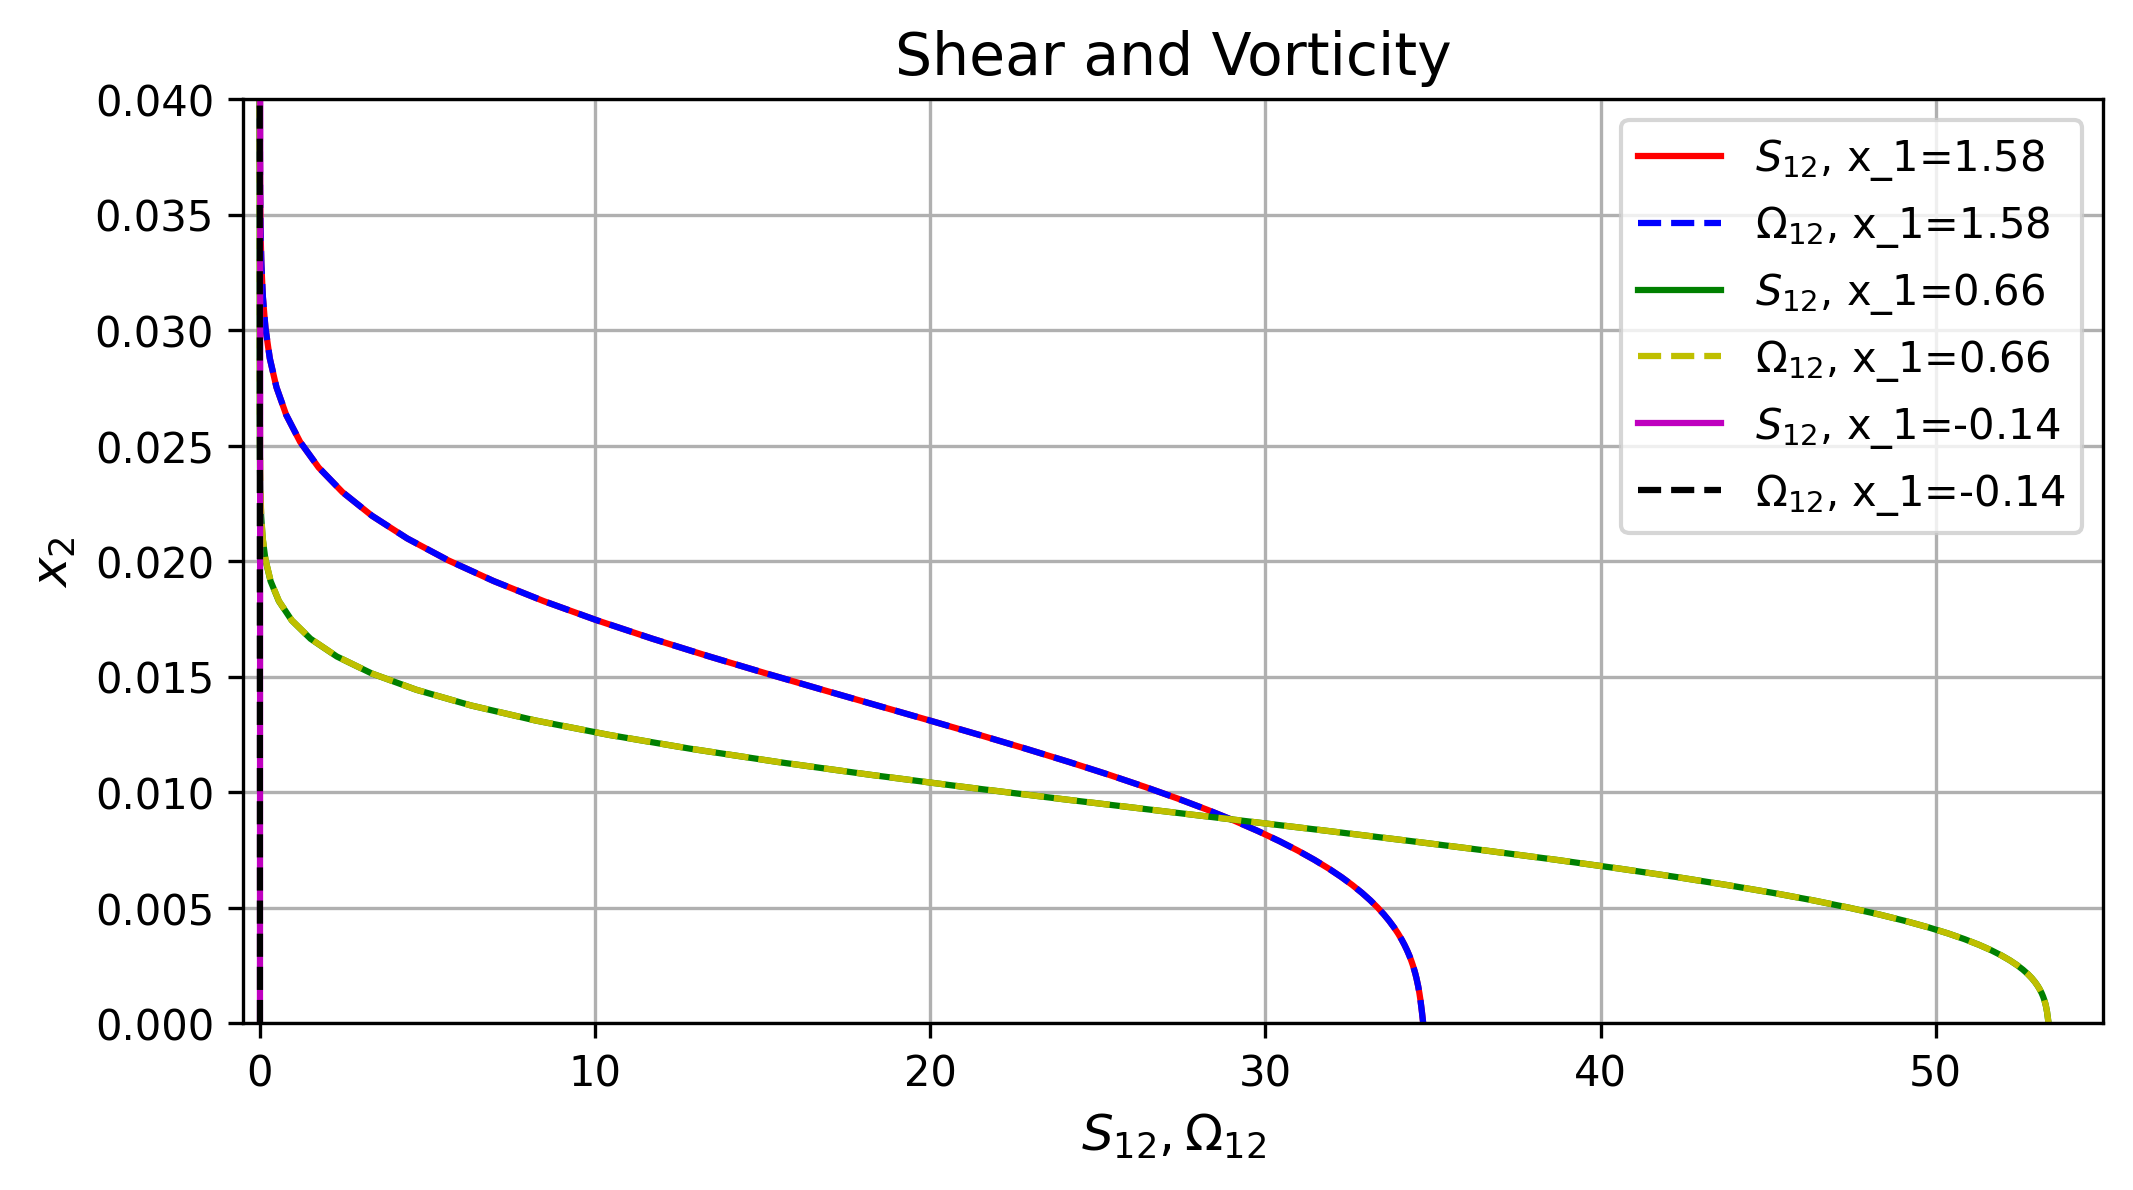
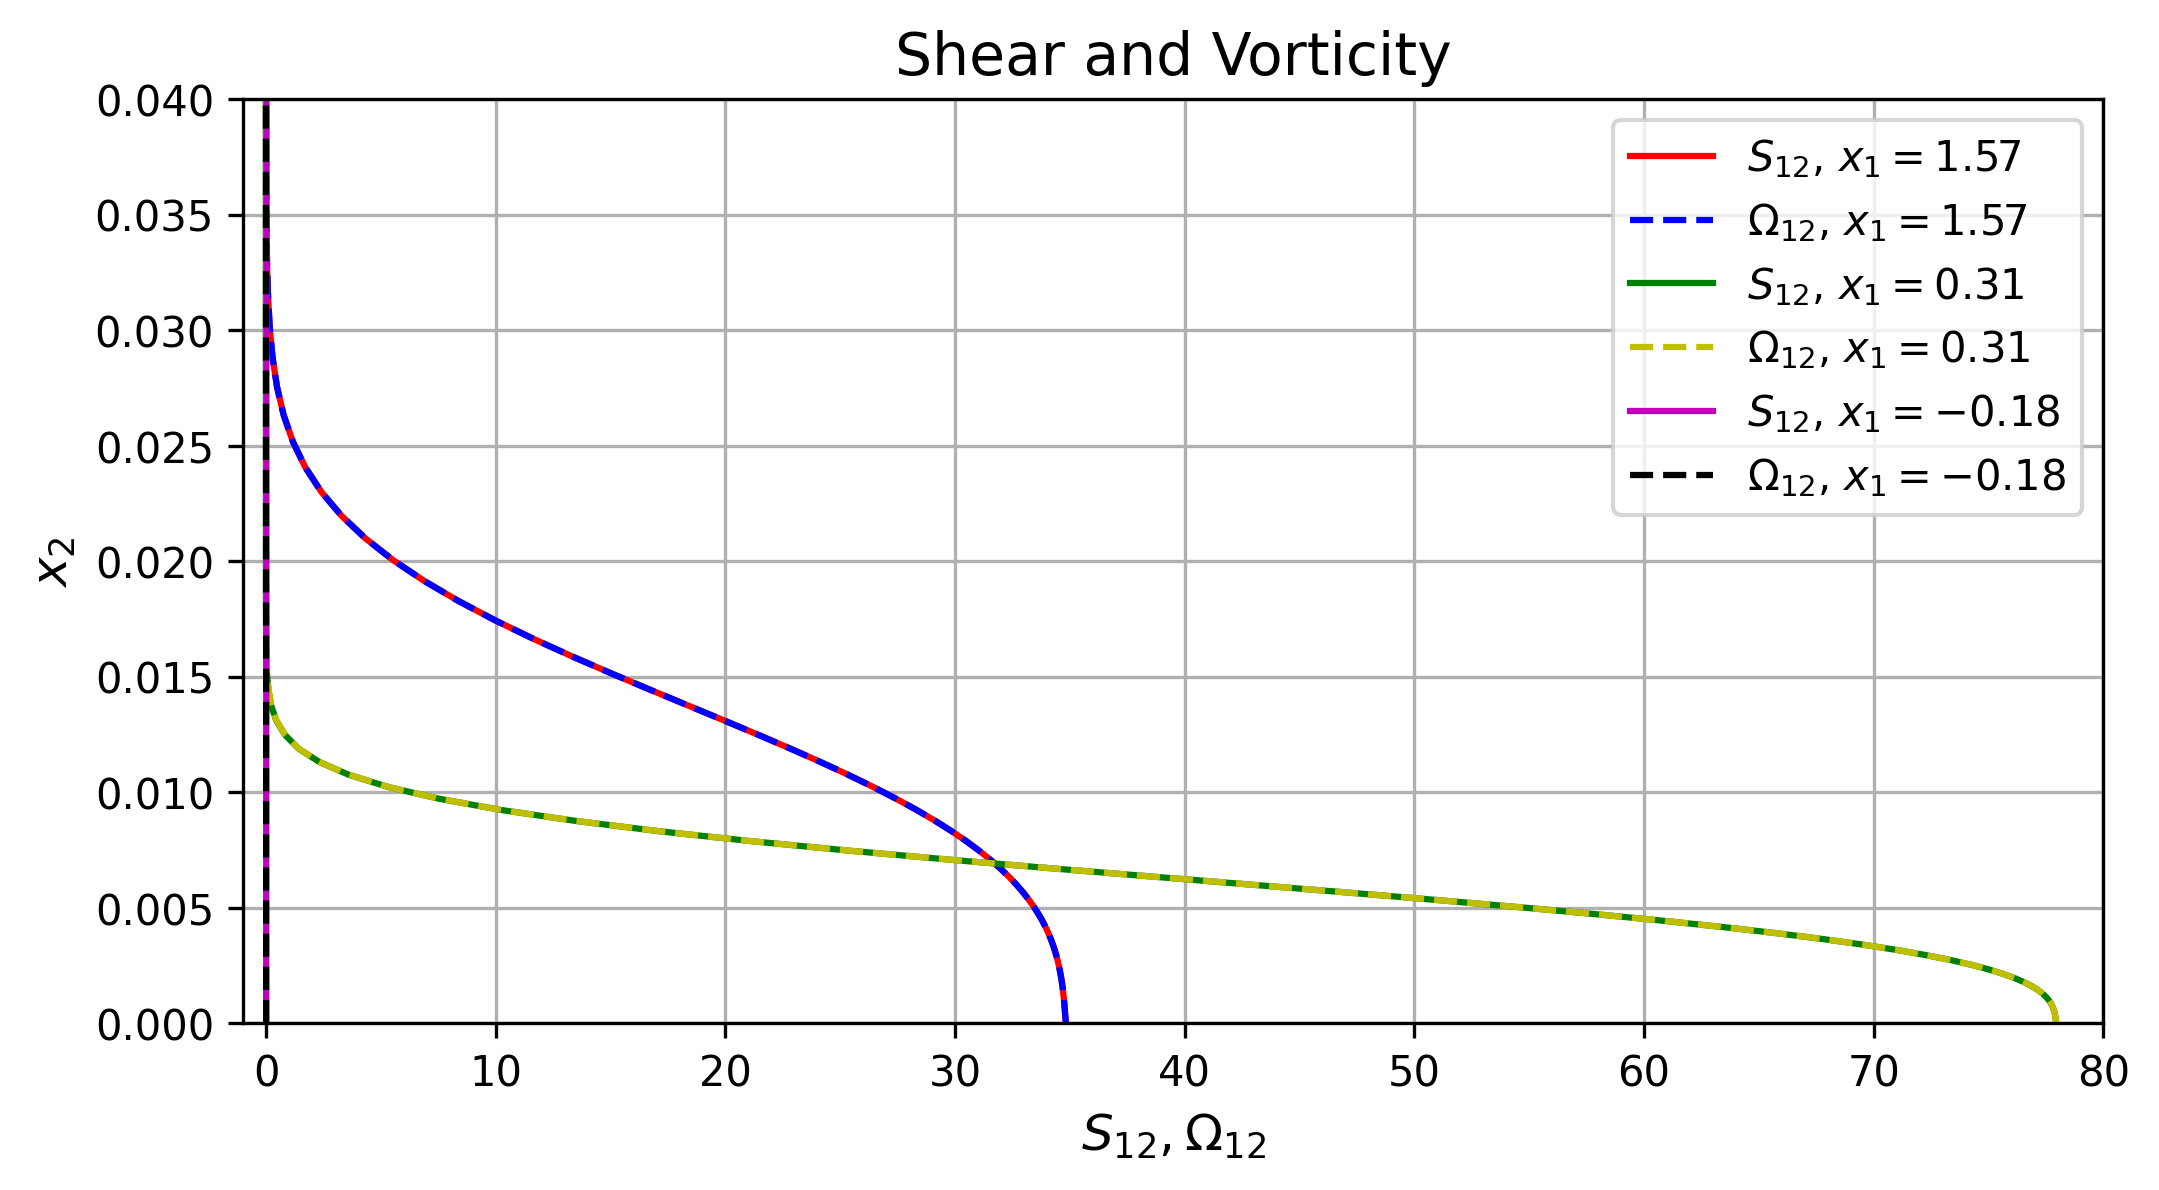
.

diff --git a/TME226/A1 (TME226) - Martin.py b/TME226/A1 (TME226) - Martin.py
@@ -592,83 +592,111 @@ print(omega_3[i,:])
 ##################################################
 new_prob(6)
 
+# S12 = 0.5 * (dudy + dvdx)
+# Omega12 = 0.5 * (dudy - dvdx)
+
+dudx_cut, dudy_cut=np.gradient(v1_2d[1:,:],xp[1:],yp[:])
+dvdx_cut, dvdy_cut=np.gradient(v2_2d[1:,:],xp[1:],yp[:])
+
 S12 = 0.5 * (dudy + dvdx)
 Omega12 = 0.5 * (dudy - dvdx)
 
-print(S12)
-print(Omega12)
+S12_cut = 0.5 * (dudy_cut + dvdx_cut)
+Omega12_cut = 0.5 * (dudy_cut - dvdx_cut)
 
-max_i = np.unravel_index(np.argmax(S12, axis=None), S12.shape)[0]
+print('dudy: ', dudy)
+print('dvdx: ', dvdx) # basically = 0
+print('max value of dvdx: ', np.unravel_index(np.argmax(dvdx, axis=None), dvdx.shape)[0])
+# print(S12)
+# print(Omega12)
 
-print('i =', max_i, 'Max S12 at i =', np.max(S12))
+max_i = np.unravel_index(np.argmax(S12_cut, axis=None), S12_cut.shape)[0]
 
-max_i = np.unravel_index(np.argmax(Omega12, axis=None), Omega12.shape)[0]
+print('i =', max_i, 'Max S12 at i:', np.max(S12_cut))
 
-print('i =', max_i, 'Max omega12 at i =', np.max(Omega12))
+max_i = np.unravel_index(np.argmax(Omega12_cut, axis=None), Omega12_cut.shape)[0]
 
-i = 170
+print('i =', max_i, 'Max omega12 at i:', np.max(Omega12_cut))
+
+# i = 170
+
+# plt.figure()
+# plt.plot(S12[i,:], yp, 'r-', label='$S_{12}$')
+# plt.plot(Omega12[i,:], yp, 'b--', label='$\Omega_{12}$')
+# plt.title(fr'Shear and Vorticity at $x_1={xc[i]:.2f}$')
+# plt.xlabel('$S_{12}, \\Omega_{12}$')
+# plt.ylabel('$x_2$')
+# plt.legend()
+# plt.axis([-0.5,35,0,0.05])
+# plt.grid(True)
+# plt.savefig('E6_1', dpi=dpi, bbox_inches='tight')
+# plt.show()
+
+# i = 85
+
+# plt.figure()
+# plt.plot(S12[i,:], yp, 'r-', label='$S_{12}$')
+# plt.plot(Omega12[i,:], yp, 'b--', label='$\Omega_{12}$')
+# plt.title(fr'Shear and Vorticity at $x_1={xc[i]:.2f}$')
+# plt.xlabel('$S_{12}, \\Omega_{12}$')
+# plt.ylabel('$x_2$')
+# plt.legend()
+# plt.grid(True)
+# plt.axis([-0.5,55,0,0.05])
+# plt.savefig('E6_2', dpi=dpi, bbox_inches='tight')
+# plt.show()
+
+# i = 5
+
+# plt.figure()
+# plt.plot(S12[i,:], yp, 'r-', label='$S_{12}$')
+# plt.plot(Omega12[i,:], yp, 'b--', label='$\Omega_{12}$')
+# plt.title(fr'Shear and Vorticity at $x_1={xc[i]:.2f}$')
+# plt.xlabel('$S_{12}, \\Omega_{12}$')
+# plt.ylabel('$x_2$')
+# plt.legend()
+# plt.grid(True)
+# plt.savefig('E6_3', dpi=dpi, bbox_inches='tight')
+# plt.show()
+
 
 plt.figure()
-plt.plot(S12[i,:], yp, 'r-', label='$S_{12}$')
-plt.plot(Omega12[i,:], yp, 'b--', label='$\Omega_{12}$')
-plt.title(fr'Shear and Vorticity at $x_1={xc[i]:.2f}$')
-plt.xlabel('$S_{12}, \\Omega_{12}$')
-plt.ylabel('$x_2$')
-plt.legend()
-plt.axis([-0.5,35,0,0.05])
-plt.grid(True)
-plt.savefig('E6_1', dpi=dpi, bbox_inches='tight')
-plt.show()
 
-i = 85
+i = 170-1
+plt.plot(S12[i,:], yp, 'r-', label='$S_{12}$' + fr', $x_1={xc[i]:.2f}$')
+plt.plot(Omega12[i,:], yp, 'b--', label='$\Omega_{12}$' + fr', $x_1={xc[i]:.2f}$')
 
-plt.figure()
-plt.plot(S12[i,:], yp, 'r-', label='$S_{12}$')
-plt.plot(Omega12[i,:], yp, 'b--', label='$\Omega_{12}$')
-plt.title(fr'Shear and Vorticity at $x_1={xc[i]:.2f}$')
-plt.xlabel('$S_{12}, \\Omega_{12}$')
-plt.ylabel('$x_2$')
-plt.legend()
-plt.grid(True)
-plt.axis([-0.5,55,0,0.05])
-plt.savefig('E6_2', dpi=dpi, bbox_inches='tight')
-plt.show()
+i = 50
+plt.plot(S12[i,:], yp, 'g-', label='$S_{12}$' + fr', $x_1={xc[i]:.2f}$')
+plt.plot(Omega12[i,:], yp, 'y--', label='$\Omega_{12}$' + fr', $x_1={xc[i]:.2f}$')
 
-i = 5
-
-plt.figure()
-plt.plot(S12[i,:], yp, 'r-', label='$S_{12}$')
-plt.plot(Omega12[i,:], yp, 'b--', label='$\Omega_{12}$')
-plt.title(fr'Shear and Vorticity at $x_1={xc[i]:.2f}$')
-plt.xlabel('$S_{12}, \\Omega_{12}$')
-plt.ylabel('$x_2$')
-plt.legend()
-plt.grid(True)
-plt.savefig('E6_3', dpi=dpi, bbox_inches='tight')
-plt.show()
-
-
-plt.figure()
-i = 170
-
-plt.plot(S12[i,:], yp, 'r-', label='$S_{12}$' + fr', x_1={xc[i]:.2f}')
-plt.plot(Omega12[i,:], yp, 'b--', label='$\Omega_{12}$' + fr', x_1={xc[i]:.2f}')
-
-i = 85
-plt.plot(S12[i,:], yp, 'g-', label='$S_{12}$' + fr', x_1={xc[i]:.2f}')
-plt.plot(Omega12[i,:], yp, 'y--', label='$\Omega_{12}$' + fr', x_1={xc[i]:.2f}')
-
-i = 5
-plt.plot(S12[i,:], yp, 'm-', label='$S_{12}$' + fr', x_1={xc[i]:.2f}')
-plt.plot(Omega12[i,:], yp, 'k--', label='$\Omega_{12}$' + fr', x_1={xc[i]:.2f}')
+i = 1
+plt.plot(S12[i,:], yp, 'm-', label='$S_{12}$' + fr', $x_1={xc[i]:.2f}$')
+plt.plot(Omega12[i,:], yp, 'k--', label='$\Omega_{12}$' + fr', $x_1={xc[i]:.2f}$')
 
 plt.title(fr'Shear and Vorticity')
-plt.axis([-0.5,55,0,0.04])
+plt.axis([-1,80,0,0.04])
 plt.xlabel('$S_{12}, \\Omega_{12}$')
 plt.ylabel('$x_2$')
 plt.legend()
 plt.grid(True)
 plt.savefig('E6_4', dpi=dpi, bbox_inches='tight')
+plt.show()
+
+
+plt.figure()
+
+i = 20
+plt.plot(S12[i,:], yp, 'r-', label='$S_{12}$' + fr', $x_1={xc[i]:.2f}$')
+plt.plot(Omega12[i,:], yp, 'b--', label='$\Omega_{12}$' + fr', $x_1={xc[i]:.2f}$')
+
+plt.title(fr'Shear and Vorticity, plate border')
+plt.axis([-15,1000,0,0.01])
+plt.xlabel('$S_{12}, \\Omega_{12}$')
+plt.ylabel('$x_2$')
+plt.legend()
+plt.grid(True)
+plt.savefig('E6_5', dpi=dpi, bbox_inches='tight')
 plt.show()
 
 # %%
